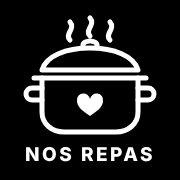
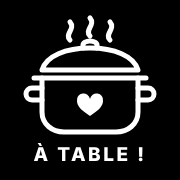
Add files via upload

Changed region(s): [[0.1389, 0.7778, 0.8611, 0.9167]]

diff --git a/index.html b/index.html
@@ -4,14 +4,14 @@
 <meta charset="utf-8">
 <meta name="viewport" content="width=device-width, initial-scale=1, viewport-fit=cover">
 <meta name="robots" content="noindex, nofollow">
-<link rel="apple-touch-icon" sizes="180x180" href="apple-touch-icon.png?v=4">
[1 lines of base64/hex data omitted]
-<meta name="apple-mobile-web-app-title" content="Menus">
+<link rel="apple-touch-icon" sizes="180x180" href="apple-touch-icon.png?v=5">
[1 lines of base64/hex data omitted]
+<meta name="apple-mobile-web-app-title" content="À table !">
 <meta name="apple-mobile-web-app-capable" content="yes">
 <meta name="mobile-web-app-capable" content="yes">
 <meta name="apple-mobile-web-app-status-bar-style" content="default">
 <meta name="theme-color" content="#FFFFFF">
-<title>Menu de la semaine</title>
+<title>À table !</title>
 <style>body{margin:0}body.vue-mobile{padding-top:calc(16px + env(safe-area-inset-top,0px))!important}body:not(.vue-mobile){padding-top:calc(28px + env(safe-area-inset-top,0px))!important}</style>
 </head>
 <body>
@@ -3624,7 +3624,7 @@ var Moteur = (function () {
         h("span", { class: "lock-jour" }, h("b", { text: JOURS_SEM[auj.getDay()] }), h("span", { text: MOIS_NOMS[auj.getMonth()] + " " + auj.getFullYear() }),
           pastillesDuJour(auj).map(function (e) { return h("span", { class: "lock-pastille" }, h("i", { "aria-hidden": "true", text: e.ico }), e.nom); }))),
       h("img", { class: "famille", src: (document.querySelector(".top .famille") || {}).src || "famille.webp", alt: "", width: "720", height: "595" }));
-    var droite = h("div", { class: "lock-droite" }, h("div", { class: "lock-tete" }, h("p", { class: "eyebrow", text: salut + " la famille !" }), h("h1", { text: "Menu de la semaine" })));
+    var droite = h("div", { class: "lock-droite" }, h("div", { class: "lock-tete" }, h("p", { class: "eyebrow", text: salut + " la famille !" }), h("h1", { text: "À table\u00a0!" })));
     var box = h("div", { class: "lock" }, affiche, droite);
     var note = h("p", { class: "status", role: "status" });
     // Code : un vrai champ invisible posé sur 4 cases (le collage et le clavier iPhone fonctionnent normalement).
